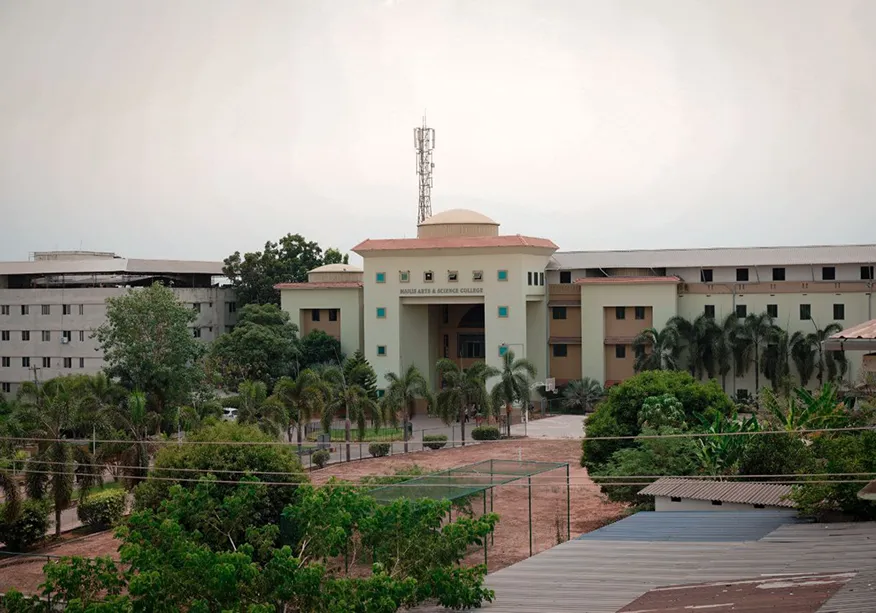
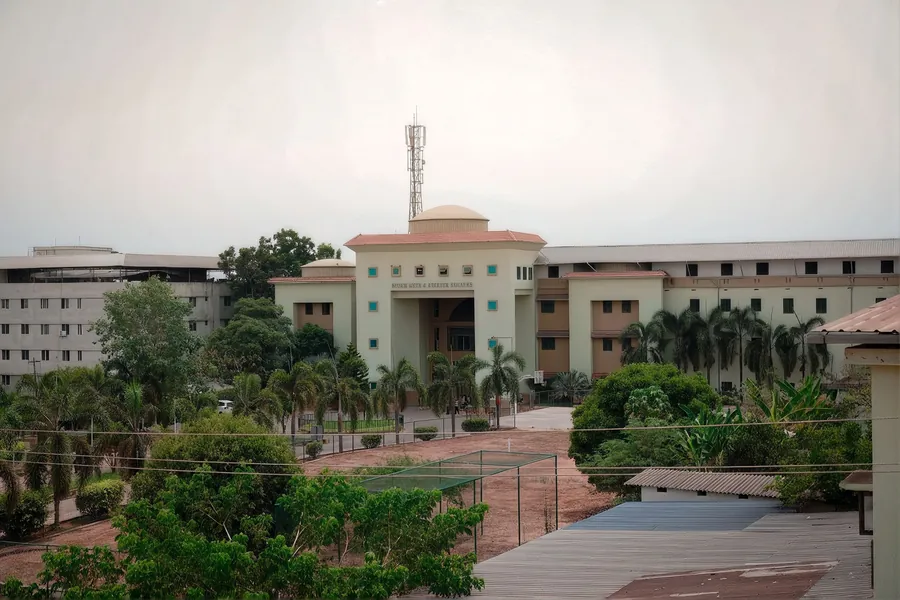
Add the full slot 2 venue roster
Grows slot 2 from 3 venues to 58. The reveal draws these as ~68px tiles
on desktop and ~44px on mobile, so the images are webp at a 900px long
edge to match what slot 1 already ships - as imported they were png and
jpg at up to 6MB each, 143MB in total, which is 30x the whole rest of
the repo for pictures nobody sees above a thumbnail. They come to 4.5MB
now, ~80KB apiece.

Names are derived from the filenames, so a few read as the shorthand the
photos were filed under rather than the college's full name.

Changed region(s): [[0.0, 0.18, 1.0, 1.0]]

diff --git a/src/app/venues.ts b/src/app/venues.ts
@@ -1,5 +1,6 @@
 // Venue rosters for the two hackathon slots (see SCHEDULE in curiosity-reveal.tsx: slot 1 runs
-// Sep 3-6, slot 2 runs Sep 11-13). Images live under /public/venues/slot-{1,2}.
+// Sep 3-6, slot 2 runs Sep 11-13). Images live under /public/venues/slot-{1,2}, webp at a 900px
+// long edge - the reveal draws them as ~68px tiles, so anything bigger is bytes nobody sees.
 export const VENUES = [
   { name: "MITS", slot: 1, image: "/venues/slot-1/mits.webp" },
   { name: "CE Vadakara", slot: 1, image: "/venues/slot-1/ce-vadakara.webp" },
@@ -15,7 +16,62 @@ export const VENUES = [
   { name: "Sree Buddha Pattoor", slot: 1, image: "/venues/slot-1/sree-buddha-pattoor.webp" },
   { name: "Tinkerspace", slot: 1, image: "/venues/slot-1/tinkerspace.webp" },
   { name: "Viswajyothi", slot: 1, image: "/venues/slot-1/viswajyothi.webp" },
+  { name: "ACE", slot: 2, image: "/venues/slot-2/ace.webp" },
+  { name: "Adi Shankara", slot: 2, image: "/venues/slot-2/adi-shankara.webp" },
+  { name: "Adoor", slot: 2, image: "/venues/slot-2/adoor.webp" },
+  { name: "Ahalia", slot: 2, image: "/venues/slot-2/ahalia.webp" },
+  { name: "AISAT", slot: 2, image: "/venues/slot-2/aisat.webp" },
+  { name: "Al Azhar", slot: 2, image: "/venues/slot-2/al-azhar.webp" },
+  { name: "Ansar", slot: 2, image: "/venues/slot-2/ansar.webp" },
   { name: "Attingal", slot: 2, image: "/venues/slot-2/attingal.webp" },
+  { name: "Baselious Marthoma", slot: 2, image: "/venues/slot-2/baselious-marthoma.webp" },
+  { name: "Carmel", slot: 2, image: "/venues/slot-2/carmel.webp" },
   { name: "CET", slot: 2, image: "/venues/slot-2/cet.webp" },
+  { name: "Chengannur", slot: 2, image: "/venues/slot-2/chengannur.webp" },
+  { name: "Christ", slot: 2, image: "/venues/slot-2/christ.webp" },
+  { name: "Cochin Kuttanad", slot: 2, image: "/venues/slot-2/cochin-kuttanad.webp" },
+  { name: "Duxford", slot: 2, image: "/venues/slot-2/duxford.webp" },
+  { name: "EMEA", slot: 2, image: "/venues/slot-2/emea.webp" },
+  { name: "Farook", slot: 2, image: "/venues/slot-2/farook.webp" },
+  { name: "FISAT", slot: 2, image: "/venues/slot-2/fisat.webp" },
+  { name: "GEC Thrissur", slot: 2, image: "/venues/slot-2/gec-thrissur.webp" },
+  { name: "Gurukulam", slot: 2, image: "/venues/slot-2/gurukulam.webp" },
+  { name: "ICCS", slot: 2, image: "/venues/slot-2/iccs.webp" },
+  { name: "Ilahia", slot: 2, image: "/venues/slot-2/ilahia.webp" },
+  { name: "Jawharlal", slot: 2, image: "/venues/slot-2/jawharlal.webp" },
+  { name: "Jyothi", slot: 2, image: "/venues/slot-2/jyothi.webp" },
+  { name: "KAHM", slot: 2, image: "/venues/slot-2/kahm.webp" },
+  { name: "Karunagapally", slot: 2, image: "/venues/slot-2/karunagapally.webp" },
+  { name: "KMEA", slot: 2, image: "/venues/slot-2/kmea.webp" },
+  { name: "LBS Povval", slot: 2, image: "/venues/slot-2/lbs-povval.webp" },
+  { name: "Lourde", slot: 2, image: "/venues/slot-2/lourde.webp" },
   { name: "Majlis", slot: 2, image: "/venues/slot-2/majlis.webp" },
+  { name: "MAMOC", slot: 2, image: "/venues/slot-2/mamoc.webp" },
+  { name: "Mar Athanasius", slot: 2, image: "/venues/slot-2/mar-athanasius.webp" },
+  { name: "MBCCET", slot: 2, image: "/venues/slot-2/mbccet.webp" },
+  { name: "MES Kunnukara", slot: 2, image: "/venues/slot-2/mes-kunnukara.webp" },
+  { name: "Munnar", slot: 2, image: "/venues/slot-2/munnar.webp" },
+  { name: "NSS Akathethara", slot: 2, image: "/venues/slot-2/nss-akathethara.webp" },
+  { name: "Perumon", slot: 2, image: "/venues/slot-2/perumon.webp" },
+  { name: "Poonjar", slot: 2, image: "/venues/slot-2/poonjar.webp" },
+  { name: "Providence Chengannur", slot: 2, image: "/venues/slot-2/providence-chengannur.webp" },
+  { name: "Punnapra", slot: 2, image: "/venues/slot-2/punnapra.webp" },
+  { name: "RIT", slot: 2, image: "/venues/slot-2/rit.webp" },
+  { name: "Sahrdaya", slot: 2, image: "/venues/slot-2/sahrdaya.webp" },
+  { name: "Saintgits Engineering", slot: 2, image: "/venues/slot-2/saintgits-engg.webp" },
+  { name: "SJCET", slot: 2, image: "/venues/slot-2/sjcet.webp" },
+  { name: "SNM", slot: 2, image: "/venues/slot-2/snm.webp" },
+  { name: "SOE CUSAT", slot: 2, image: "/venues/slot-2/soe-cusat.webp" },
+  { name: "Sree Chithra", slot: 2, image: "/venues/slot-2/sree-chithra.webp" },
+  { name: "Sree Narayana Guru Chalakode", slot: 2, image: "/venues/slot-2/sree-narayana-guru-chalakode.webp" },
+  { name: "St Thomas Ranni", slot: 2, image: "/venues/slot-2/st-thomas-ranni.webp" },
+  { name: "Thejus", slot: 2, image: "/venues/slot-2/thejus.webp" },
+  { name: "Thenhipalam", slot: 2, image: "/venues/slot-2/thenhipalam.webp" },
+  { name: "TKM", slot: 2, image: "/venues/slot-2/tkm.webp" },
+  { name: "TOC H", slot: 2, image: "/venues/slot-2/toc-h.webp" },
+  { name: "Trikaripur", slot: 2, image: "/venues/slot-2/trikaripur.webp" },
+  { name: "TS Calicut", slot: 2, image: "/venues/slot-2/ts-calicut.webp" },
+  { name: "Vidya Academy", slot: 2, image: "/venues/slot-2/vidya-academy.webp" },
+  { name: "Vimal Jyothi", slot: 2, image: "/venues/slot-2/vimal-jyothi.webp" },
+  { name: "West Hill", slot: 2, image: "/venues/slot-2/west-hill.webp" },
 ] as const;
